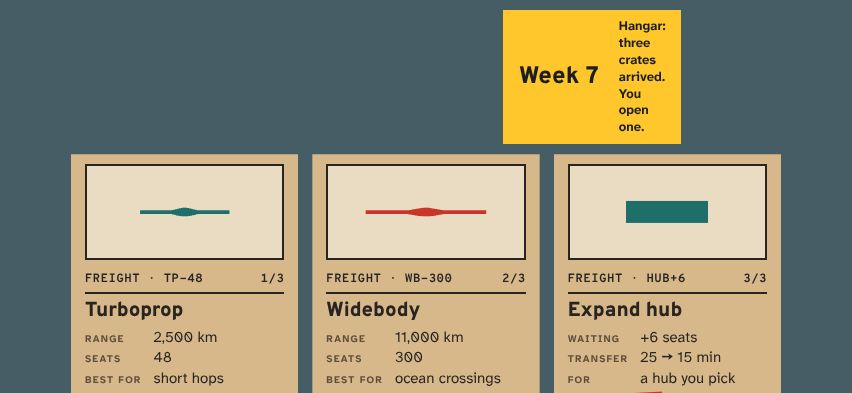
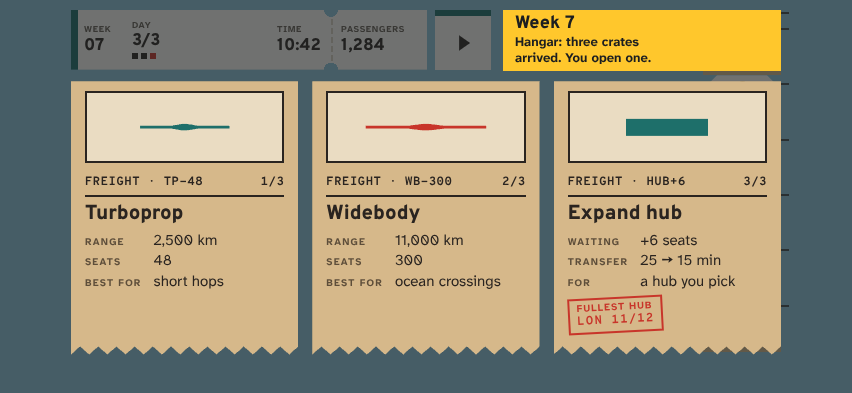
N11z/N11aa: weekly board fits landscape cut-outs; notch profile for tutorial and ATC strip (D-208)
The phone-landscape weekly board takes its model window from the height left
(minus the insets), stacks the sign on boards under 860 px so its line keeps
230-274 px, and tightens label columns under 700 px. The ATC strip subtracts
both side insets in landscape. test:e2e:notch adds an 812x375 profile, checks
the board over the real HUD, and audits the tutorial (via its controller), the
ATC range strip and a first-time card (46/54 on the old CSS, 54/54 now).

diff --git a/src/ui/upgrade/upgrade.css b/src/ui/upgrade/upgrade.css
@@ -45,6 +45,7 @@
   margin: 0;
   min-width: 0;
   font: 700 15px/1.3 'Atkinson Hyperlegible Next', sans-serif;
+  text-wrap: balance; /* [night-11z] no lone last word ("jedną.") on its own line */
 }
 
 .airway-upgrade-labels {
@@ -235,6 +236,29 @@
   .airway-upgrade-stamp { margin-top: 6px; }
   /* [night-07t] The airport pick too: the sign beside the pass leaves the low globe band free for tapping. */
   .airway-upgrade-open.is-picking-hub { padding-top: calc(10px + var(--aw-safe-top)); }
+  /* [night-11z] D-208: the model window takes what the height leaves (no 96 px floor, minus the top/bottom insets),
+     so the three labels end above the bottom inset on 360–393 px tall phones (they ran 70–100 px off-screen). */
+  .airway-upgrade-open { --upgrade-win: clamp(48px, calc(100vh - 300px - var(--aw-safe-top) - var(--aw-safe-bottom)), 230px); }
+  .airway-upgrade { container: upgrade-board / inline-size; }
+  /* [night-11z] D-208: a board narrower than 860 px (side cut-outs, 720–852 px phones) left the sign beside the pass
+     178 px or less and its line wrapped into a 1–50 px column (6–7 lines). The week now sits small above the line,
+     and the sign may run over the dimmed peg rack (unreachable while the board is open) up to 300 px wide. */
+  @container upgrade-board (max-width: 860px) {
+    .airway-upgrade-open:not(.is-picking-hub) .airway-upgrade-sign {
+      display: grid; grid-template-columns: minmax(0, 1fr); row-gap: 1px; align-content: center;
+      max-width: max(calc(100% - 532px), min(300px, calc(100% - 432px))); padding: 5px 14px 6px 12px;
+    }
+    .airway-upgrade-open:not(.is-picking-hub) .airway-upgrade-week { font-size: 18px; }
+    .airway-upgrade-open:not(.is-picking-hub) .airway-upgrade-sub { font-size: 13px; line-height: 1.2; }
+  }
+  /* Under 700 px (720×360, 812×375 with cut-outs) the PL hub values wrapped to two lines each and the labels ran
+     13–19 px past the bottom: tighter columns keep every value on one line. */
+  @container upgrade-board (max-width: 700px) {
+    .airway-upgrade-tag { padding-left: 10px; padding-right: 10px; }
+    .airway-upgrade-grid { column-gap: 8px; }
+    .airway-upgrade-key { letter-spacing: .05em; }
+    .airway-upgrade-value { font-size: 14px; }
+  }
 }
 /* [night-07u] Narrow phone landscape: the Back tile keeps its arrow only (its aria-label still names it), so the
    instruction keeps one or two lines beside the pass. */

diff --git a/src/ui/atcStrip.css b/src/ui/atcStrip.css
@@ -4,7 +4,7 @@
   z-index: 40;
   bottom: calc(92px + var(--aw-safe-bottom));
   left: max(12px, var(--aw-safe-left));
-  max-width: min(740px, calc(100% - 24px));
+  max-width: min(740px, calc(100% - 24px - var(--aw-safe-left) - var(--aw-safe-right))); /* [night-11z] D-208 */
   display: flex;
   flex-wrap: wrap;
   border-left: 10px solid #c8352a;
@@ -52,7 +52,8 @@
   .airway-atc-strip {
     bottom: max(14px, var(--aw-safe-bottom));
     left: calc(84px + var(--aw-safe-left));
-    max-width: calc(100% - 100px - var(--aw-safe-right));
+    /* [night-11z] D-208: minus both side insets (it ended under the right cut-out by the left inset) */
+    max-width: calc(100% - 100px - var(--aw-safe-left) - var(--aw-safe-right));
   }
 }
 

diff --git a/docs/TESTING.md b/docs/TESTING.md
@@ -117,7 +117,7 @@ Times are measured in the integration container (8 vCPU, SwiftShader); “ci” 
 | `npm run test:e2e:upgrade-picks` | ci | 15–60 s | [night-07q] Real-UI journey for the targeted weekly upgrades at 412×915 and 915×412 (two fresh runs each): "+2 slots" opens the airport pick, Back returns to the three crates with nothing taken, a real tap on the globe completes it; then the hub expansion is completed by a tap on a hub. The DEV gesture `window.aw.gesture('pick')` gives a visible target clear of the sign; `window.aw.state().upgrades` lists taken upgrades with the picked airport. Fails when the globe tap no longer completes the pick | `SUMMARY test:e2e:upgrade-picks seed=0xA3AA steps=10 passed=10 failed=0 skipped=0` |
 | `npm run test:e2e:screens-fit` | ci | ~45 s | [night-07s] Settings, puzzle board and pause sheet × PL/EN × 360×640, 412×915, 915×412 (18 checks): every visible button/select is a ≥ 48 px target inside the viewport, no button text is clipped, each select is wide enough for its longest option (canvas-measured), no horizontal page scroll. Fails on the pre-N7s settings grid at 360 dp | `SUMMARY test:e2e:screens-fit seed=0xA1A1 checks=18 passed=18 failed=0` |
 | `npm run test:e2e:screens-fit-320` | ci | ~30 s | [night-07v] The screens-fit audit at 320×568 and 568×320 × PL/EN (12 checks) on settings, puzzle board and pause sheet, with each select keeping ≥ 8 px to spare beside its longest option. Fails 10/12 on the pre-N7v settings grid (132 px selects at 320 dp). [ext-02] The puzzle board shows one departure per `NN.json` (40), is scrolled to the last one, and a pack header never overflows; [ext-05] no puzzle title on the board splits a word across lines (each word's text `Range` stays on one line box) — 10/12 on the old titles (12 PL, 10 EN titles split, e.g. 29 „ATLANTYK-U”) | `SUMMARY test:e2e:screens-fit-320 seed=0xA1A1 checks=12 passed=12 failed=0` |
-| `npm run test:e2e:notch` | ci | ~40 s | [night-11y] R5j, D-206: notch / cut-out profile. Chromium cannot emulate `env(safe-area-inset-*)`, so the `--aw-safe-*` tokens are set on `:root` (portrait 393×852 59/0/34/0, landscape 852×393 0/59/21/59) and menu (with a notice), settings, puzzle board, upgrade board, game over and HUD are mounted alone on `?perf=scene` (no globe); every visible unclipped button/select/link must lie inside the safe rectangle, scrolling screens again at their end. PL/EN (24 checks); shots `docs/shots/n11y/`. Fails 14/24 on the pre-R5j CSS (menu service row and puzzle Back in the home-indicator band, settings Back under the notch, landscape menu/upgrade/game over under the side cut-outs) | `SUMMARY test:e2e:notch … checks=24 passed=24 failed=0` |
+| `npm run test:e2e:notch` | ci | ~90 s | [night-11y] R5j, D-206: notch / cut-out profile. Chromium cannot emulate `env(safe-area-inset-*)`, so the `--aw-safe-*` tokens are set on `:root` (portrait 393×852 59/0/34/0, landscape 852×393 0/59/21/59) and menu (with a notice), settings, puzzle board, upgrade board, game over and HUD are mounted alone on `?perf=scene` (no globe); every visible unclipped button/select/link must lie inside the safe rectangle, scrolling screens again at their end. PL/EN (24 checks); shots `docs/shots/n11y/`. Fails 14/24 on the pre-R5j CSS (menu service row and puzzle Back in the home-indicator band, settings Back under the notch, landscape menu/upgrade/game over under the side cut-outs) | `SUMMARY test:e2e:notch … checks=24 passed=24 failed=0` [night-11z] D-208: + landscape-mini 812×375 0/50/21/50; the weekly board over the real HUD must not scroll, every label ends above the bottom inset, the sign line is ≥ 120 px and ≤ 3 lines and clear of the boarding pass; + the training flight through its controller (4 steps audited), the ATC range strip and a first-time card, whose paper panels must lie inside the safe rectangle. Summary `checks=54`. |
 | `npm run test:e2e:pick-sign` | ci | ~35 s | [night-07u] Weekly airport pick ("+2 slots"/hub expansion) × PL/EN × 915×412, 844×390, 740×360, 412×915, 360×640 (10 checks): the yellow sign covers neither the boarding pass nor the peg rack, the instruction keeps ≥ 90 px width, Back stays a 48 px target, and beside the pass (≥ 844 px landscape) the sign is no taller than the pass. Fails 9/10 on the pre-N7u sign | `SUMMARY test:e2e:pick-sign seed=0xA1A1 steps=10 passed=10 failed=0` |
 | `npm run test:e2e:undo-after-upgrade` | ci | ~20 s | [night-07x] Real clicks at 412×915 (PL) and 915×412 (EN): take a week-1 aircraft card, tap Undo on the dock; the choice stays recorded and the clock keeps running (it froze at the week boundary with no board before N7x). Fails 2/2 on the old Undo | `SUMMARY test:e2e:undo-after-upgrade seed=0xA1A1 steps=2 passed=2 failed=0` |
 | `npm run test:e2e:continue-framing` | ci | ~15 s | [night-07z] Seed 0xA1C2 opens airports on several continents by the week-1 board; save → Main menu → Continue at 412×915 (EN) and 915×412 (PL) must open with at least two actionable airports on screen (`aw.gesture('route')`). Fails 1/2 (portrait) on the old spherical-mean framing | `SUMMARY test:e2e:continue-framing seed=0xA1C2 steps=2 passed=2 failed=0` |

diff --git a/docs/NIGHT-BACKLOG.md b/docs/NIGHT-BACKLOG.md
@@ -516,6 +516,18 @@ Gate (on a fresh worktree from origin/dev with your branch merged): `npm ci`, `n
       settings dialog also keep clear of the left/right insets (landscape cut-out). `test:safe-area` (fast, headless)
       fails on any raw use (56 on the old CSS); `test:e2e:notch` (ci) sets the tokens to iPhone-like values on six
       screens mounted without the globe and fails on any control inside an inset. **Area:** UI CSS, `scripts/`, `e2e/`.
+- [x] N11z **Weekly board in phone landscape with side cut-outs (D-208)** — at 852×393 with 0/59/21/59 insets the
+      sign beside the boarding pass was 178 px wide and its line wrapped into a 15–44 px column (6–7 lines), and the
+      labels ran 63–117 px past the bottom inset (720–740×360 without insets too). The model window now takes what the
+      height leaves, a board under 860 px sets the week small above the line and lets the sign run over the dimmed peg
+      rack (≤ 300 px), under 700 px the label columns tighten; boards ≥ 860 px unchanged. `test:e2e:notch` checks the
+      board over the real HUD (no scroll, labels above the inset, sign line ≥ 120 px / ≤ 3 lines, clear of the pass)
+      and gains an 812×375 profile. **Area:** `src/ui/upgrade/upgrade.css`, `e2e/notch.mjs`.
+- [x] N11aa **Notch profile for the training flight and the ATC strip (D-208)** — `test:e2e:notch` mounts the tutorial
+      through its controller (`mountTutorial`, replay, then route → aircraft → transfer → cleared, audited at each
+      step), the ATC range strip and a first-time card, and checks their paper panels as well as their controls. Found:
+      the landscape strip subtracted only the right inset from its width, so a first-time card (strip + OK tag) ended
+      34–43 px under the right cut-out; it now subtracts both. **Area:** `src/ui/atcStrip.css`, `e2e/notch.mjs`.
 
 ## Continuous development round N12 (agent 2)
 - [x] N12a **Balance bot plays for reach (D-90)** — the handover gap "the DEV bot rarely connects new airports; long
@@ -1360,3 +1372,4 @@ Evidence: `docs/RESEARCH.md` "R6 — …".
 - 2026-11-04 · N12ae docs numbering guard, Q-77 → B, Q-78 → A (D-203, D-204, D-205) · night/12ae-docs-consistency · test:doc-ids 8/8 (6/8 on origin/dev 728502c: order + Q-77), 166 decisions max D-205, 79 questions max Q-79; reserved D-202 was taken by N11x (#190) meanwhile → own numbers D-203…D-205; after merging dev (#190): test:store-shots 1/1, test:fast 79/79 (258.4 s), build ok; no browser suite (docs and store text only; store PNG manifest still carries the old game text, regenerated with the next store:shots)
 - 2026-11-04 · N11y safe-area tokens across the UI CSS + notch profile (R5j, D-206) · night/11y-safe-area-tokens · after merging dev (#189–#191; D-203 → D-206, N12ae took D-203…D-205): test:safe-area 6/6 (raw=0, 56 on the old CSS), test:e2e:notch 24/24 in 37 s (14/24 on the old CSS), test:fast 80/80, build ok, e2e:screens-fit 18/18; shots docs/shots/n11y/ (14). Not run: ui:matrix (upgrade screen times out at Fold sizes under SwiftShader since the new globe, G7); the CSS is unchanged at zero insets, which is all Chromium can show
 - 2026-11-04 · N12af "+2 slots" card value and offer rule (D-207, Q-80) · night/12af-slots-card-value · card-value --card=slots 200 seeds/60 min: D-150 pool 4/364 boards offered (3 runs), 0 picks, forced −2.82 min (0 longer / 3 shorter / 1 same), holds in 12/200 runs (median 11.6 min); what-if always eligible 240/358 boards (161 runs), 0 picks, forced −1.10 min (16/96/128), turboprop alternative −0.42, bot mean 16.74 → 16.45 min; no rule change; after merging dev (#192): test:doc-ids 8/8 (168 decisions, 80 questions), test:fast 80/80 (213.8 s), build ok
+- 2026-11-04 · N11z weekly board in phone landscape with cut-outs + N11aa notch profile for the training flight and the ATC strip (D-208) · night/11z-notch-board-tutorial · origin/dev cfb1dd8 merged first: test:e2e:notch 54/54 in 75 s (46/54 on the old CSS: board scrolls 71–125 px, labels 63–117 px under the bottom inset, sign line 0–44 px wide / 6–7 lines; first-time card 34–43 px under the right cut-out), test:fast 80/80, build ok; shots docs/shots/n11y/ (+22 new, 4 refreshed, all inspected). Not run: ui:matrix (globe timeouts under SwiftShader, G7); boards ≥ 860 px wide unchanged, so its 915×412 PNGs are unaffected

diff --git a/docs/DECISIONS.md b/docs/DECISIONS.md
@@ -1621,3 +1621,19 @@ cap (D-46) rarely binds for the bot, not because the rule is too strict. With th
 positive subset), and the bot's mean drops 16.74 → 16.45 min because the card takes a place from the hub card or the
 second aircraft. No rule changed (D-113); whether people reach the cap is asked in Q-80. Numbers in
 `docs/balance/README.md` "N12af". **Status: in force (no change); revisit with Q-80 after the closed test.**
+
+## D-208 — Weekly board fits phone landscape with cut-outs; ATC strip clears both side insets (2026-11-04, Claude, night N11z/N11aa)
+On a landscape phone with side cut-outs (852×393, 0/59/21/59) the weekly board left the sign beside the boarding pass
+178 px wide, its line wrapped into a 15–44 px column (6–7 lines, sign 117–134 px tall), and the three labels ran
+63–117 px past the bottom inset (the overlay scrolled 71–125 px); 720–740 × 360 phones without insets did the same.
+Phone landscape (≥ 720 px wide, ≤ 520 px tall) now: the model window takes what the height leaves (`100vh − 300 px −
+top/bottom insets`, 48–230 px; no 96 px floor); a board narrower than 860 px (container query) sets the week small
+above its line and lets the sign run over the dimmed peg rack (not tappable while the board is open) up to 300 px, so
+the line keeps 230–274 px and two lines; below 700 px the label columns tighten so the PL hub values stay on one
+line. Boards ≥ 860 px wide (915×412 and up) are unchanged (ui:matrix PNGs unaffected). The sign's line is balanced
+(no lone last word). The ATC paper strip (range warning and first-time cards) subtracted only the right inset from
+its landscape width, so a first-time card ended 34–43 px under the right cut-out; it now subtracts both. Guards:
+`test:e2e:notch` gains a small landscape profile (812×375, 0/50/21/50), checks the board over the real HUD (no scroll,
+labels above the bottom inset, sign line ≥ 120 px and ≤ 3 lines, sign clear of the pass), the training flight through
+its controller (route → aircraft → transfer → cleared) and the ATC strip and a first-time card as panels (46/54 on
+the old CSS). **Status: in force.**
